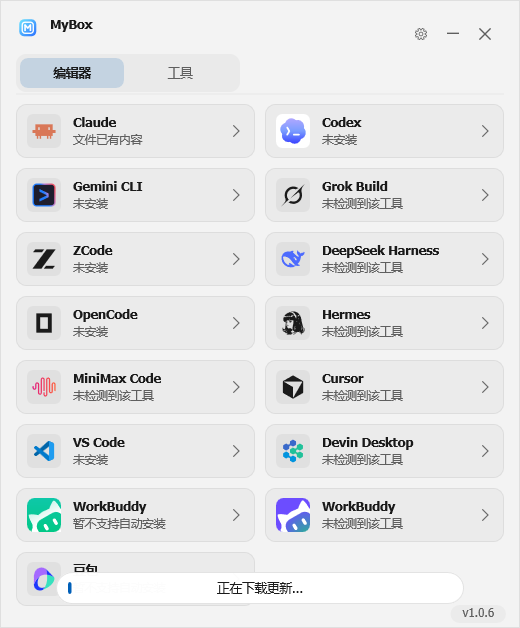
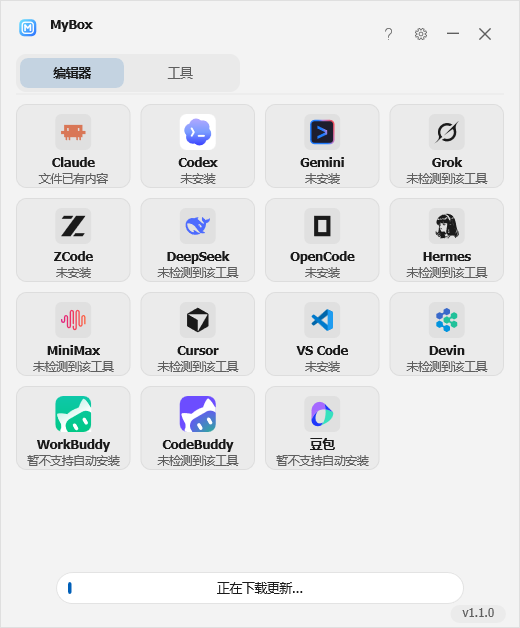
v1.1.0:编辑器页改为一排 4 个的竖版卡片
- 编辑器 15 个工具按 4 列竖版卡片排布(图标居中在上,名称+注入状态在下),一屏看全
- 工具页保持 2 列横版
- 精简长工具名(Gemini CLI→Gemini、DeepSeek Harness→DeepSeek、MiniMax Code→MiniMax、
  Devin Desktop→Devin、Grok Build→Grok,重复的 WorkBuddy 改 CodeBuddy)适配窄卡
- README 首页截图更新

diff --git a/MyBox/config.h b/MyBox/config.h
@@ -13,7 +13,8 @@ inline constexpr float kW = 520.f;
 inline constexpr float kH = 628.f;
 inline constexpr float kPad = 16.f;
 inline constexpr float kTop = 104.f;           // 内容区起始 y（头部品牌区 + 分段标签之下）
-inline constexpr float kCardH = 54.f;
+inline constexpr float kCardH = 54.f;         // 工具页横版卡片高度
+inline constexpr float kCardVH = 84.f;        // 编辑器页竖版卡片高度(4 列)
 inline constexpr float kGap = 10.f;
 inline constexpr float kStatusH = 18.f;    // 底部状态栏高度
 inline constexpr UINT  kTimerToast = 1;
@@ -184,7 +185,7 @@ inline const wchar_t* const kStr[][2] = {
     /* S_ABOUT_DESC */      { L"AI \u7F16\u7A0B\u5DE5\u5177\u7684\u63D0\u793A\u8BCD\u4E0E\u6280\u80FD\u5B89\u88C5\u5668", L"Prompt & skill installer for AI coding tools" },
     /* S_TUTORIAL_BTN */    { L"\u4F7F\u7528\u6559\u7A0B", L"Tutorial" },
     /* S_HELP_TITLE */      { L"\u4F7F\u7528\u5E2E\u52A9", L"Help" },
-    /* S_VERSION */         { L"1.0.9", L"1.0.9" },
+    /* S_VERSION */         { L"1.1.0", L"1.1.0" },
     /* S_ERR_NO_PROMPT_SEL */ { L"\u8BF7\u5148\u9009\u62E9\u4E00\u4E2A\u63D0\u793A\u8BCD", L"Please select a prompt first" },
     /* S_ERR_READ_PROMPT */ { L"\u8BFB\u53D6\u63D0\u793A\u8BCD\u6587\u4EF6\u5931\u8D25", L"Failed to read prompt file" },
     /* S_ERR_UTF16_PROMPT */{ L"\u63D0\u793A\u8BCD\u6587\u4EF6\u8BF7\u4FDD\u5B58\u4E3A UTF-8 \u7F16\u7801", L"Please save prompt file as UTF-8" },
@@ -376,29 +377,29 @@ inline const Item kItems[] = {
         L"claude",    L".claude\\CLAUDE.md", nullptr, L".claude\\skills" },
     { L"Codex",            L"", kGroupEditor, IDR_LOGO_CODEX,     true,  nullptr, L"https://openai.com/codex/",
         L"codex",     L".codex\\AGENTS.md", nullptr, L".codex\\skills" },
-    { L"Gemini CLI",       L"", kGroupEditor, IDR_LOGO_GEMINI,    false, nullptr, L"https://ai.google.dev/gemini-api/docs/gemini-cli",
+    { L"Gemini",           L"", kGroupEditor, IDR_LOGO_GEMINI,    false, nullptr, L"https://ai.google.dev/gemini-api/docs/gemini-cli",
         L"gemini",    L".gemini\\GEMINI.md" },
-    { L"Grok Build",       L"", kGroupEditor, IDR_LOGO_GROK,      false, nullptr, L"",
+    { L"Grok",             L"", kGroupEditor, IDR_LOGO_GROK,      false, nullptr, L"",
         L"grokbuild", L".grok\\AGENTS.md" },
     { L"ZCode",            L"", kGroupEditor, IDR_LOGO_ZAI,       false, nullptr, L"",
         L"zcode",     L".zcode\\AGENTS.md", nullptr, L".zcode\\skills" },
-    { L"DeepSeek Harness", L"", kGroupEditor, IDR_LOGO_DEEPSEEK,  false, nullptr, L"",
+    { L"DeepSeek",         L"", kGroupEditor, IDR_LOGO_DEEPSEEK,  false, nullptr, L"",
         L"deepseek",  L".dsh\\AGENTS.md", nullptr, L".dsh\\skills" },
     { L"OpenCode",         L"", kGroupEditor, IDR_LOGO_OPENCODE,  false, nullptr, L"https://opencode.ai",
         L"opencode",  L".config\\opencode\\AGENTS.md" },
     { L"Hermes",           L"", kGroupEditor, IDR_LOGO_HERMES,    false, nullptr, L"",
         L"hermes",    L".hermes\\SOUL.md" },
-    { L"MiniMax Code",     L"", kGroupEditor, IDR_LOGO_MINIMAX,   false, nullptr, L"",
+    { L"MiniMax",          L"", kGroupEditor, IDR_LOGO_MINIMAX,   false, nullptr, L"",
         L"mcode",     L".minimax\\AGENTS.md" },
     { L"Cursor",           L"", kGroupEditor, IDR_LOGO_CURSOR,    false, nullptr, L"https://cursor.com",
         L"cursor",    L".cursor\\rules\\Ua.mdc" },
     { L"VS Code",          L"", kGroupEditor, IDR_LOGO_VSCODE,    false, nullptr, L"https://code.visualstudio.com",
         L"vscode",    L".copilot\\copilot-instructions.md" },
-    { L"Devin Desktop",    L"", kGroupEditor, IDR_LOGO_DEVIN,     false, nullptr, L"https://devin.ai/desktop",
+    { L"Devin",            L"", kGroupEditor, IDR_LOGO_DEVIN,     false, nullptr, L"https://devin.ai/desktop",
         L"devin",     L".codeium\\windsurf\\memories\\global_rules.md" },
     { L"WorkBuddy",        L"", kGroupEditor, IDR_LOGO_WORKBUDDY, true,  nullptr, L"",
         L"workbuddy", nullptr, L"\u8FD8\u6CA1\u6709\u786E\u8BA4 WorkBuddy \u7684\u63D0\u793A\u8BCD\u4F4D\u7F6E" },
-    { L"WorkBuddy",        L"", kGroupEditor, IDR_LOGO_CODEBUDDY, true,  nullptr, L"",
+    { L"CodeBuddy",        L"", kGroupEditor, IDR_LOGO_CODEBUDDY, true,  nullptr, L"",
         L"codebuddy", L".codebuddy\\CODEBUDDY.md", nullptr, L".codebuddy\\skills" },
     { L"\u8C46\u5305",             L"", kGroupEditor, IDR_LOGO_DOUBAO,    false, nullptr, L"https://www.doubao.com",
         L"doubao",    nullptr, L"\u8C46\u5305\u6CA1\u6709\u672C\u5730\u63D0\u793A\u8BCD\u6587\u4EF6" },

diff --git a/MyBox/ui-main.cpp b/MyBox/ui-main.cpp
@@ -28,18 +28,21 @@ struct Slot
     int item;
 };
 
-// 当前标签对应分组的条目，两列排列
+// 当前标签对应分组的条目：编辑器 4 列竖版卡片，工具 2 列横版卡片
 static void Layout(std::vector<Slot>& slots)
 {
     float y = kTop;
-    float cw = (kW - 2 * kPad - kGap) / 2;
+    bool editor = Group(g_tab) == kGroupEditor;
+    int cols = editor ? 4 : 2;
+    float ch = editor ? kCardVH : kCardH;
+    float cw = (kW - 2 * kPad - (cols - 1) * kGap) / cols;
     int col = 0;
     for (int i = 0; i < kItemCount; ++i)
     {
         if (kItems[i].group != Group(g_tab)) continue;
         float x = kPad + col * (cw + kGap);
-        slots.push_back({ R(x, y, x + cw, y + kCardH), i });
-        if (++col == 2) { col = 0; y += kCardH + kGap; }
+        slots.push_back({ R(x, y, x + cw, y + ch), i });
+        if (++col == cols) { col = 0; y += ch + kGap; }
     }
 }
 
@@ -243,6 +246,43 @@ static void DrawCard(const Slot& s)
     Fill(r, Ov(hot ? 0.09f : 0.05f), 10.f);
     Stroke(r, Ov(hot ? 0.16f : 0.10f), 10.f);
 
+    // 编辑器页：竖版卡片（图标居中在上，名称 + 注入状态在下）
+    if (it.group == kGroupEditor)
+    {
+        float cw = r.right - r.left;
+        D2D1_RECT_F tile = R(r.left + (cw - 36.f) / 2, r.top + 10.f, r.left + (cw + 36.f) / 2, r.top + 46.f);
+        DrawIcon(s.item, tile);
+
+        if (it.key && g_state[s.item] == kInstalled)
+        {
+            D2D1_POINT_2F c = D2D1::Point2F(tile.right - 1, tile.bottom - 1);
+            g_brush->SetColor(C(kGreen, 0.22f));
+            g_rt->FillEllipse(D2D1::Ellipse(c, 8.5f, 8.5f), g_brush.Get());
+            D2D1_ELLIPSE ring = D2D1::Ellipse(c, 6.f, 6.f);
+            g_brush->SetColor(C(P.bg));
+            g_rt->FillEllipse(ring, g_brush.Get());
+            g_brush->SetColor(Ov(hot ? 0.10f : 0.05f));
+            g_rt->FillEllipse(ring, g_brush.Get());
+            g_brush->SetColor(C(kGreen));
+            g_rt->FillEllipse(D2D1::Ellipse(ring.point, 4.5f, 4.5f), g_brush.Get());
+        }
+
+        Text(ItemName(s.item), g_fTitle.Get(), R(r.left + 4, r.top + 50, r.right - 4, r.top + 67), C(P.text), DWRITE_TEXT_ALIGNMENT_CENTER);
+
+        if (it.key)
+        {
+            const wchar_t* st;
+            if (!Supported(s.item))                      st = T(S_NOT_SUPPORTED);
+            else if (!ToolDetected(s.item))              st = T(S_TOOL_NOT_FOUND);
+            else if (g_state[s.item] == kInstalled)      st = T(S_INJECTED);
+            else if (g_state[s.item] == kActiveNoState)  st = T(S_FILE_HAS_CONTENT);
+            else                                         st = T(S_NOT_INJECTED);
+            Text(st, g_fLabel.Get(), R(r.left + 4, r.top + 67, r.right - 4, r.top + 81), C(P.sub), DWRITE_TEXT_ALIGNMENT_CENTER);
+        }
+        return;
+    }
+
+    // 工具页：横版卡片（图标在左，名称 + 副标题在右）
     float cy = (r.top + r.bottom) / 2;
     D2D1_RECT_F tile = R(r.left + 11, cy - 17, r.left + 45, cy + 17);
     DrawIcon(s.item, tile);
@@ -263,20 +303,8 @@ static void DrawCard(const Slot& s)
     }
 
     float tx = tile.right + 12, tr = r.right - 30;
-    // 副标题行：工具页条目用自带副标题；编辑器条目显示注入状态
     const wchar_t* sub = ItemSub(s.item);
-    if (!sub[0] && it.key)
-    {
-        const wchar_t* st;
-        if (!Supported(s.item))                      st = T(S_NOT_SUPPORTED);
-        else if (!ToolDetected(s.item))              st = T(S_TOOL_NOT_FOUND);
-        else if (g_state[s.item] == kInstalled)      st = T(S_INJECTED);
-        else if (g_state[s.item] == kActiveNoState)  st = T(S_FILE_HAS_CONTENT);
-        else                                         st = T(S_NOT_INJECTED);
-        Text(ItemName(s.item), g_fTitle.Get(), R(tx, cy - 17, tr, cy), C(P.text));
-        Text(st, g_fLabel.Get(), R(tx, cy + 1, tr, cy + 16), C(P.sub));
-    }
-    else if (sub[0])
+    if (sub[0])
     {
         Text(ItemName(s.item), g_fTitle.Get(), R(tx, cy - 17, tr, cy), C(P.text));
         Text(sub, g_fLabel.Get(), R(tx, cy + 1, tr, cy + 16), C(P.sub));

diff --git a/cli/mybox.cpp b/cli/mybox.cpp
@@ -30,7 +30,7 @@
 #include <mach-o/dyld.h>     // _NSGetExecutablePath
 #endif
 
-static const char* kVersion = "1.0.9";
+static const char* kVersion = "1.1.0";
 static const char* kPromptsApiUrl =
     "https://api.github.com/repos/Aidan-996/MyToolbox/contents/prompts";
 static const size_t kMaxFile = 4 * 1024 * 1024;   // 单文件上限，与 Windows 版一致
